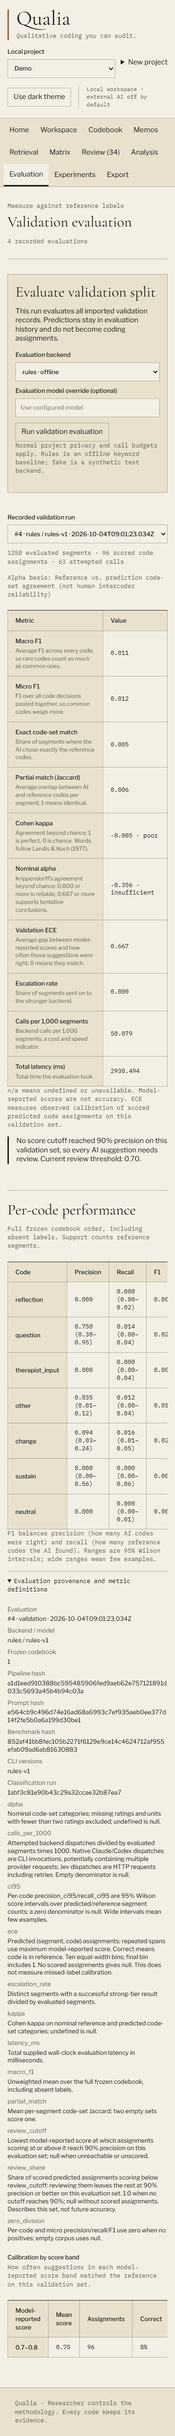
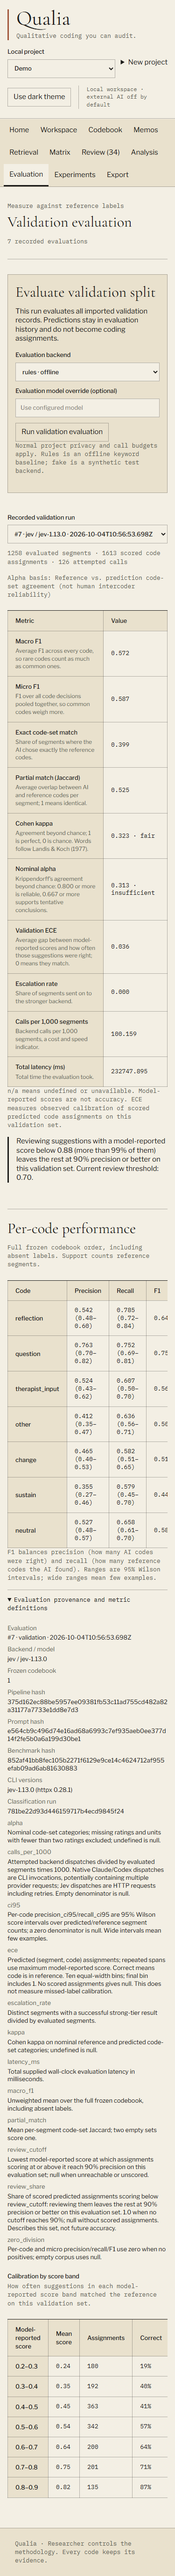
docs: document in-app tuning and the measured Jev threshold gain

diff --git a/docs/USER-GUIDE.md b/docs/USER-GUIDE.md
@@ -600,7 +600,11 @@ The fake operator makes a scripted change to fake classification behavior. A gai
 
 ### Tune per-code suggestion thresholds without AI
 
-Some codes need a lower bar to be found; others need a higher bar to avoid noise. The `thresholds` agent learns one minimum model-reported score per code from your **dev** benchmark, then lets Qualia's normal policy decide on the **validation** benchmark:
+Some codes need a lower bar to be found; others need a higher bar to avoid noise. The `thresholds` agent learns one minimum model-reported score per code from your **dev** benchmark, then lets Qualia's normal policy decide on the **validation** benchmark.
+
+**In the app:** open **Experiments**, choose the **Classifier to tune** under **Tune suggestion thresholds**, and select **Tune thresholds**. The page stays busy while it works (seconds for offline backends, several minutes for external ones), then selects the new attempt so you can read its KEEP or REVERT decision, the thresholds it tried and the measurements. If something prevents a run, such as a missing dev benchmark, the exact reason appears instead.
+
+**From a terminal**, the same experiment is:
 
 ```powershell
 uv run qualia improve --project my-study --agent thresholds --budget 1
@@ -611,7 +615,7 @@ uv run qualia improve --project my-study --agent thresholds --budget 1
 3. It writes the result to `code_thresholds` in `config/routing.yaml` and states each change in the hypothesis, for example *Change talk default -> 0.35*.
 4. Validation, tests and a confirming run decide KEEP or REVERT exactly as for other agents. A REVERT means the new cutoffs did not measurably help.
 
-No AI operator, subscription or extra cost is involved beyond the classifier calls themselves. Thresholds work best with backends that score every code, such as Jev; keyword rules and the fake backend use constant scores, so they rarely benefit. On a full-size copy of the demo with the rules backend, the agent sampled 400 of 6,759 dev segments in about 30 seconds, found no useful change and correctly recorded REVERT. Kept thresholds appear in **Codebook** as *AI suggests at score ≥ 0.35*. Dev data is fitting data; Qualia never uses the protected split.
+No AI operator, subscription or extra cost is involved beyond the classifier calls themselves. Thresholds work best with backends that score every code, such as Jev; keyword rules and the fake backend use constant scores, so they rarely benefit. On the demo with Jev (2026-10-04), the agent fitted thresholds from 0.20 (reflection, change) to 0.70 (question) on 400 of 6,759 dev segments. Validation macro F1 rose from 0.523 to 0.567 and 0.572 on the fresh confirmation, exact code-set match from 0.365 to 0.405, and calibration error fell from 0.050 to 0.038, so Qualia kept it (experiment 2). The run took 13 minutes and cost about $0.35 in Jev usage. With the rules backend, by contrast, the agent finds no useful change and correctly records REVERT. Kept thresholds appear in **Codebook** as *AI suggests at score ≥ 0.35*. Dev data is fitting data; Qualia never uses the protected split.
 
 In **Experiments**, choose an attempt and read **Operator hypothesis**, **Measured validation results**, **Changed files** and **Experiment provenance**. Compare baseline, candidate and fresh confirmation. A candidate gain alone is insufficient: trusted policy also checks constraints and tests. Accepted changes receive a local commit/tag; rejected attempts retain their report and measurements.
 

diff --git a/docs/CONTRACTS.md b/docs/CONTRACTS.md
@@ -24,6 +24,7 @@ ECE lookup requires backend, model, frozen codebook, pipeline and prompt identit
 Classification summaries add `escalated_segments`, the count of distinct successful strong-tier results.
 Feature 010 additive metrics: each `per_code` row adds `precision_ci95`/`recall_ci95` (95% Wilson `[low, high]`, null for a zero denominator); top level adds `review_share` and `review_cutoff` (90% precision target over scored predicted assignments). Older evaluation rows without these keys stay valid and are never rewritten.
 Feature 011 additive routing: optional `code_thresholds` maps positive-integer code ID strings to scores in (0, 1]. The router keeps a code when `score >= code_thresholds[id]`, else the provider's `default_threshold` (Jev 0.5; other backends keep every emitted code). Backends return raw scores; the result cache stores raw output and thresholds are applied on every read; escalation, disagreement, evaluation predictions and suggestions use thresholded codes. `classify_segments(..., with_candidates=True)` additionally returns raw `candidates` (in memory only). Batches shrink until a provider's `estimate_cost` admits them, still one reservation per dispatch. `qualia improve --agent thresholds` fits `code_thresholds` on a hash-ordered sample of at most 400 dev segments before the experiment database pin.
+Feature 012 additive route: `POST /api/projects/{slug}/tune-thresholds` takes `EvaluateInput` (`backend`, `model`) and returns the recorded `ExperimentResult` of exactly `improve_project(agent='thresholds', budget=1)`; failures use the existing sanitized 400 response.
 
 ## Analysis contract (008, owner-added scope)
 

diff --git a/README.md b/README.md
@@ -104,7 +104,7 @@ The verified local MVP used the actual pinned AnnoMI demo:
 
 This is a scripted fake-backend smoke test of measurement, policy and provenance. It is not evidence of trained-model quality. Predicting all seven codes improved macro F1 in this run while exact match fell from approximately 0.00477 to 0. The before/after table retains both outcomes.
 
-A no-AI agent tunes one suggestion threshold per code on the dev split, and the same policy keeps or reverts it on validation: `uv run qualia improve --project my-study --agent thresholds`. See the [user guide](docs/USER-GUIDE.md#tune-per-code-suggestion-thresholds-without-ai).
+A no-AI agent tunes one suggestion threshold per code on the dev split, and the same policy keeps or reverts it on validation. Run it from **Experiments → Tune thresholds** in the app, or with `uv run qualia improve --project my-study --agent thresholds`. On the demo with Jev it was kept on measured evidence: validation macro F1 0.523 → 0.567 (confirmation 0.572), exact code-set match 0.365 → 0.405, calibration error 0.050 → 0.038, about $0.35 of Jev usage. See the [user guide](docs/USER-GUIDE.md#tune-per-code-suggestion-thresholds-without-ai).
 
 An interrupted finalization leaves a recovery journal at `QUALIA_HOME/recovery/<project>/pending.json` and blocks further writes. Preserve the journal and its snapshot, inspect the recorded stage and Git/database state, and resolve recovery explicitly. Do not delete the journal or operation lock merely to clear the error.
 

diff --git a/docs/research/jev.md b/docs/research/jev.md
@@ -85,4 +85,6 @@ Reviewed after the live check to decide which open-source ideas suit Qualia. The
 - [pozapas/jev-calibrated-narrative-coding](https://github.com/pozapas/jev-calibrated-narrative-coding): turns calibration into a review budget (share to review to reach a target precision). Qualia reports this as `review_share`/`review_cutoff` at 90% precision.
 - Local Jev-compatible servers ([Ollaya](https://github.com/ollaya-dev/ollaya), [Decima](https://github.com/amyrmahdy/decima), [jeff](https://github.com/logan-markewich/jeff)) were considered and declined by the owner for now (decision05): small CPU models read short contexts and trail Jev on reasoning-heavy coding.
 
+Measured in Qualia the same day (not a third-party claim): `qualia improve --project demo --agent thresholds --backend jev` fitted per-code thresholds of 0.20–0.70 on 400 dev segments; validation macro F1 0.523 → 0.567 → 0.572 (confirmation), exact match 0.365 → 0.405, ECE 0.050 → 0.038, 420 requests, 8.2M input tokens, $0.346; KEEP tagged `exp-0002-measured-gain` in the demo workspace. The calibration table shows Jev's 0.2–0.3 band correct 19% and 0.8–0.9 band 87% of the time on this set.
+
 Implementation note from the same session: Qualia's 64 KB local request bound rejected the default 20-segment batch for a 7-code codebook, so every demo Jev call failed. The router now shrinks each batch until the adapter admits it.
